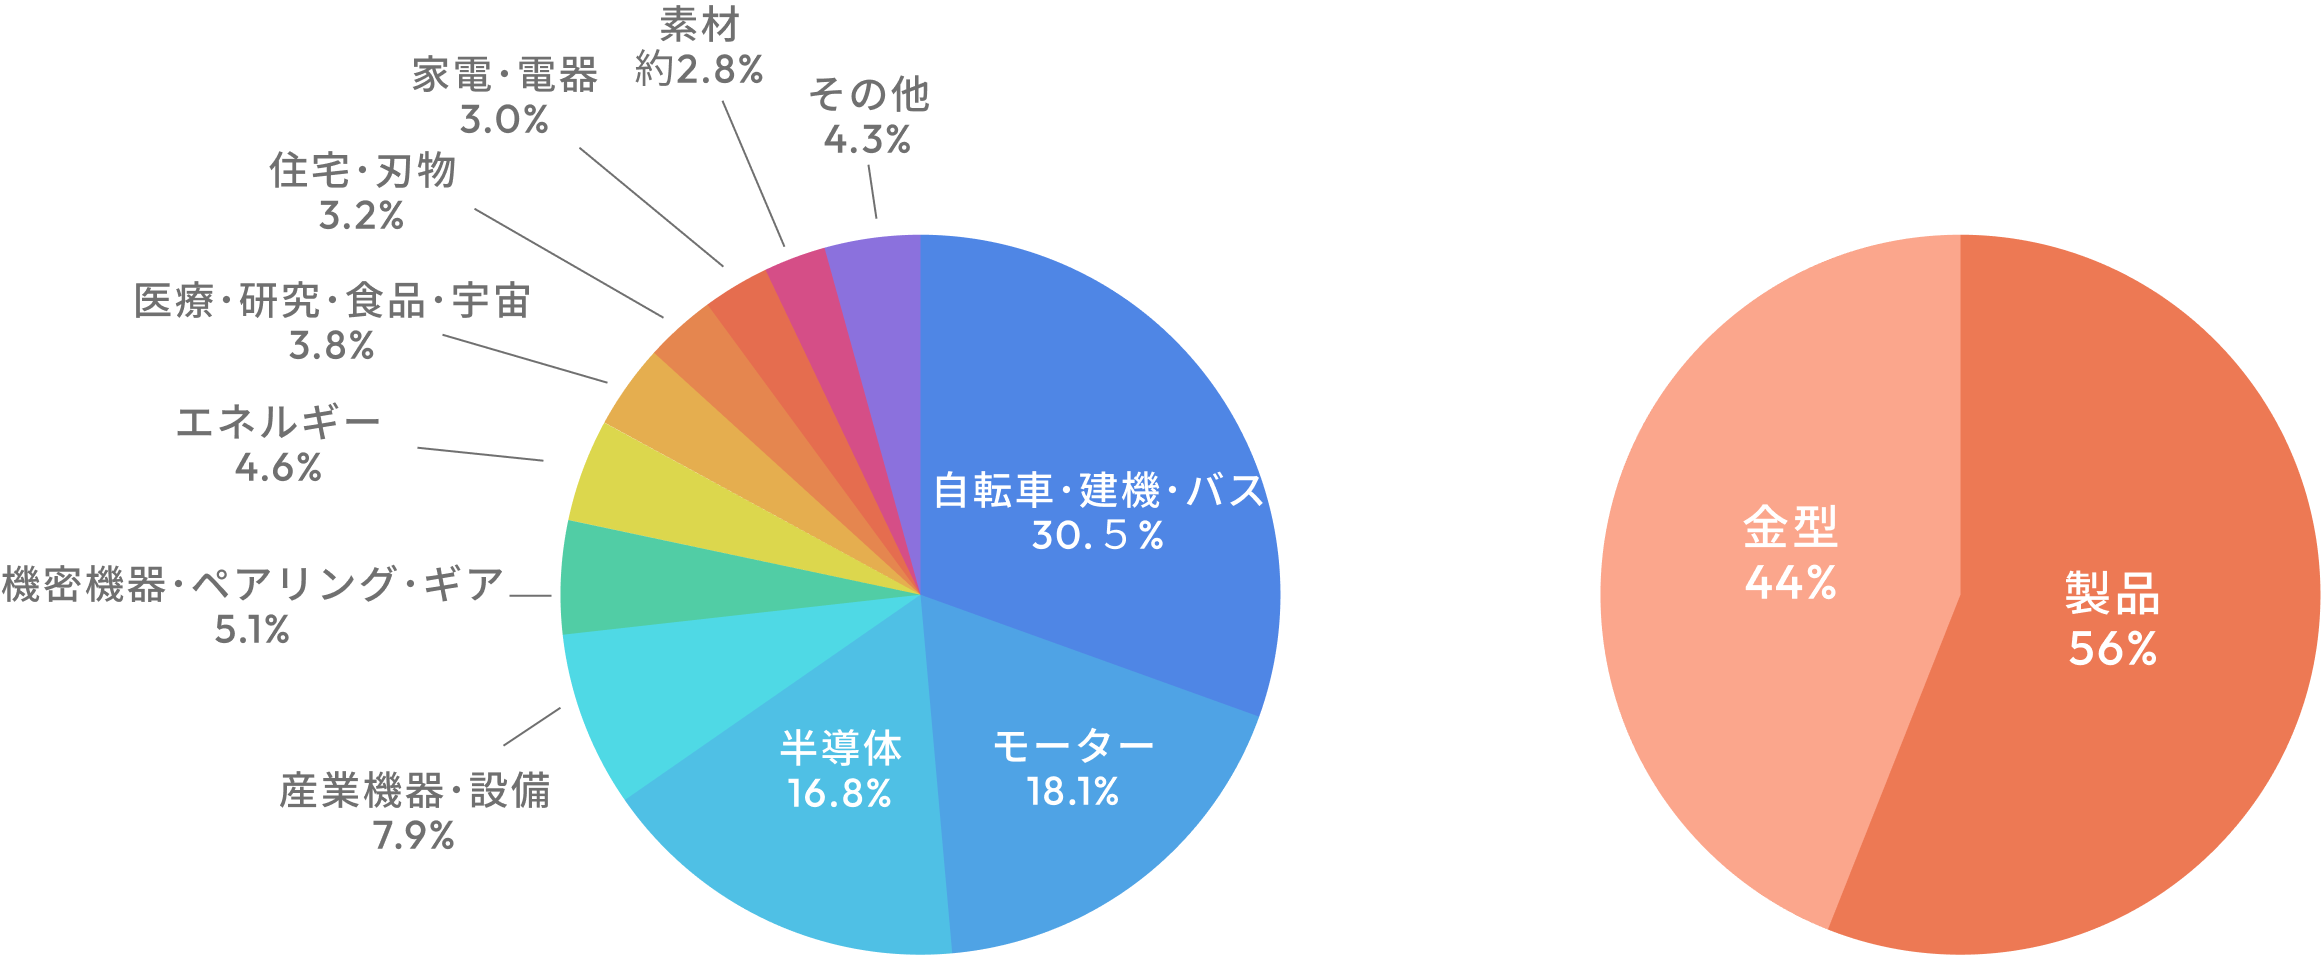
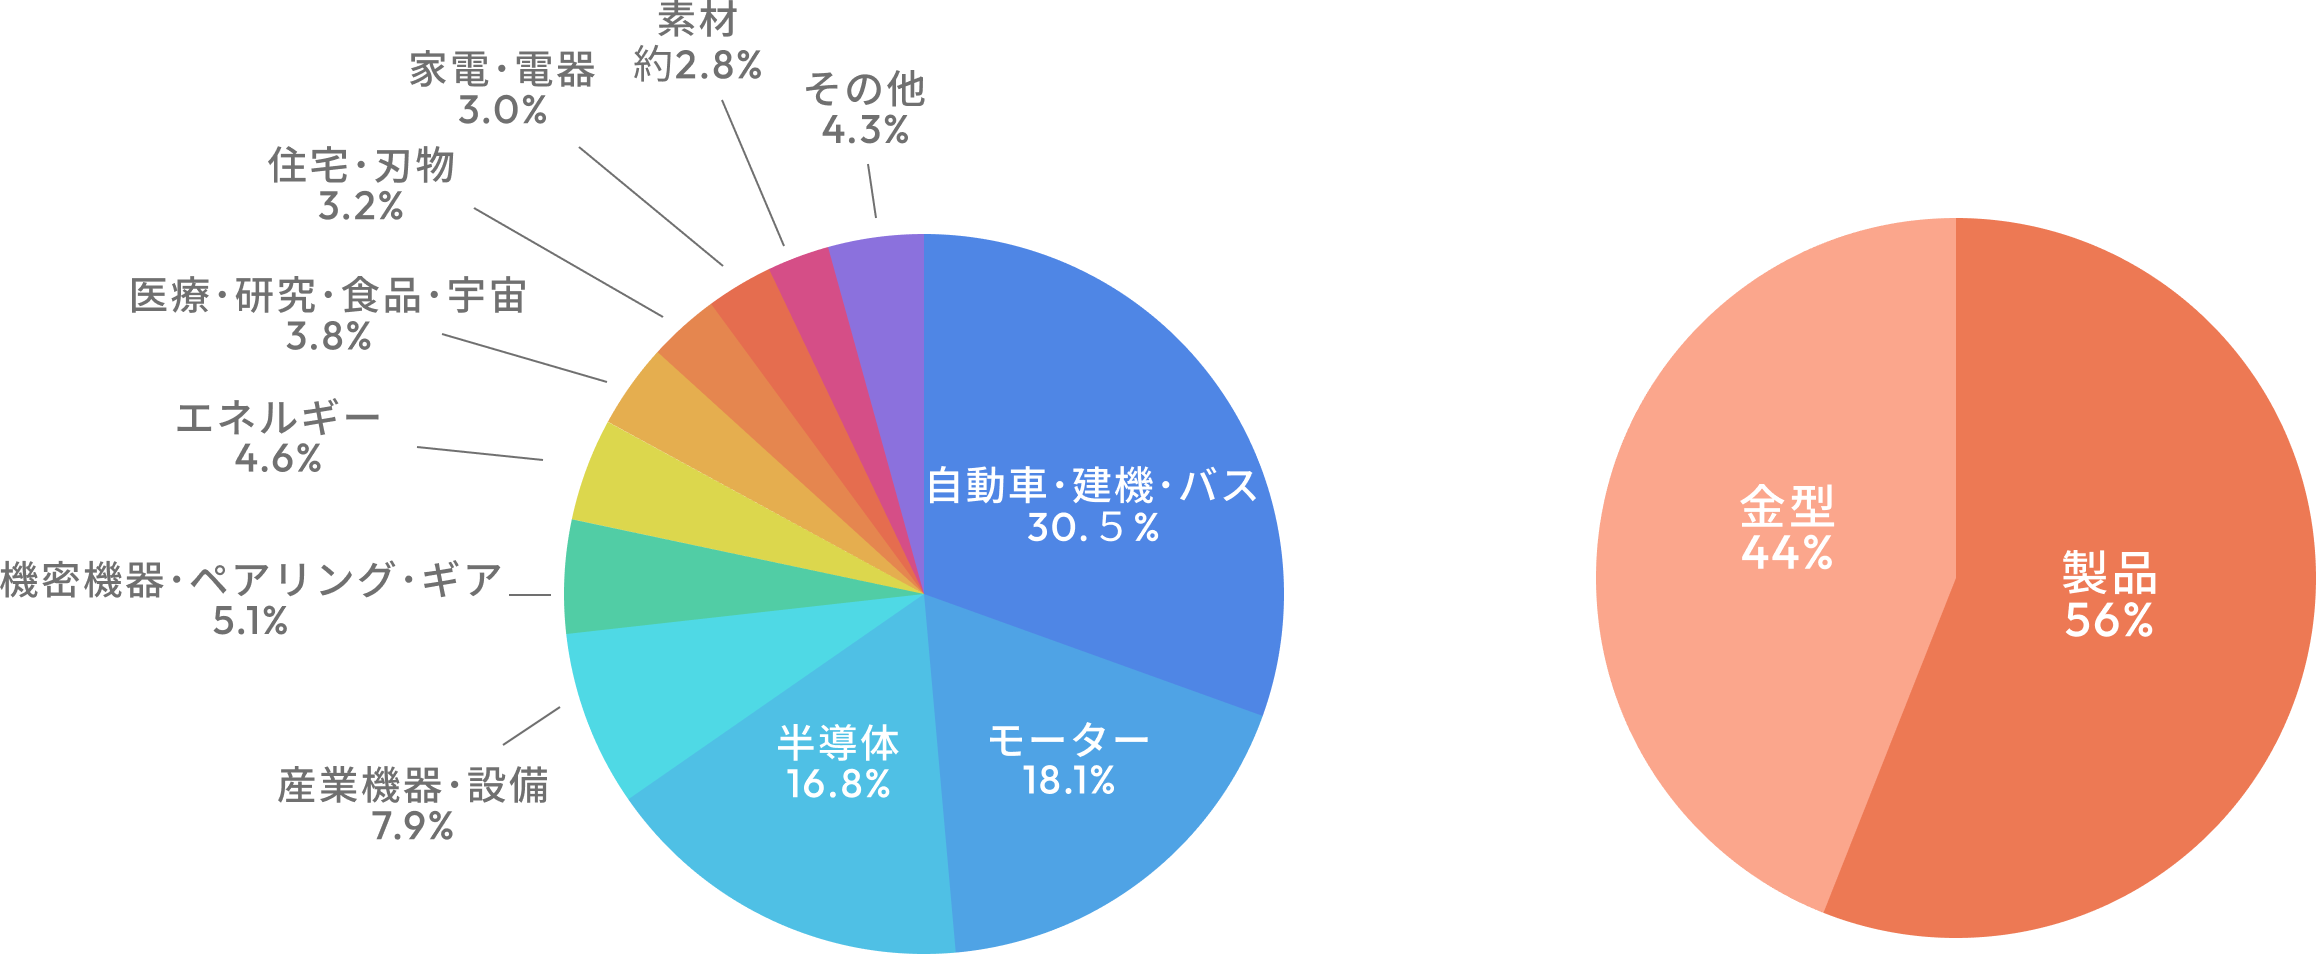
修正対応

diff --git a/wp/page-about.php b/wp/page-about.php
@@ -39,7 +39,7 @@ Template Name: 会社情報
           <p class="p-about-lead__txt">
             株式会社ワタナベはワイヤーカット加工を中核事業とするワイヤーカット専門企業であり<br class="is-pc">
             競争力あるワイヤーカット加工サービスをお客様に提供することで厳しい環境下にある<br class="is-pc">
-            「ものづくり日本の競争力強化に微力ながら貢献する事」を目標とする会社であります。<br>
+            「ものづくり日本の競争力強化に貢献する事」を目標とする会社であります。<br>
             この目標実現の為、以下３点に関し国内最高のサービスを目指しております。
           </p>
         </div>
@@ -65,7 +65,7 @@ Template Name: 会社情報
                 </span>
                 <span class="p-about-philosophy__customers-ja-txt">
                   最高水準の<br>
-                  品質･技術を実現する
+                  品質･技術を提供する
                 </span>
               </li>
               <li class="p-about-philosophy__customers-item">
@@ -133,7 +133,6 @@ Template Name: 会社情報
               <ol class="p-about-policy__details-olist">
                 <li class="p-about-policy__details-olist-item">環境に与える影響を考慮した事業活動を推進し、継続的な改善と汚染予防に努める</li>
                 <li class="p-about-policy__details-olist-item">企業活動における廃棄物の削減、省エネルギーに努める</li>
-                <li class="p-about-policy__details-olist-item">品質向上のため、全社員が協力する</li>
                 <li class="p-about-policy__details-olist-item">
                   企業活動をする上で、環境関連法令等を遵守する<br>
                   有害化学物質等は適切に管理し、環境汚染と健康被害を予防する
